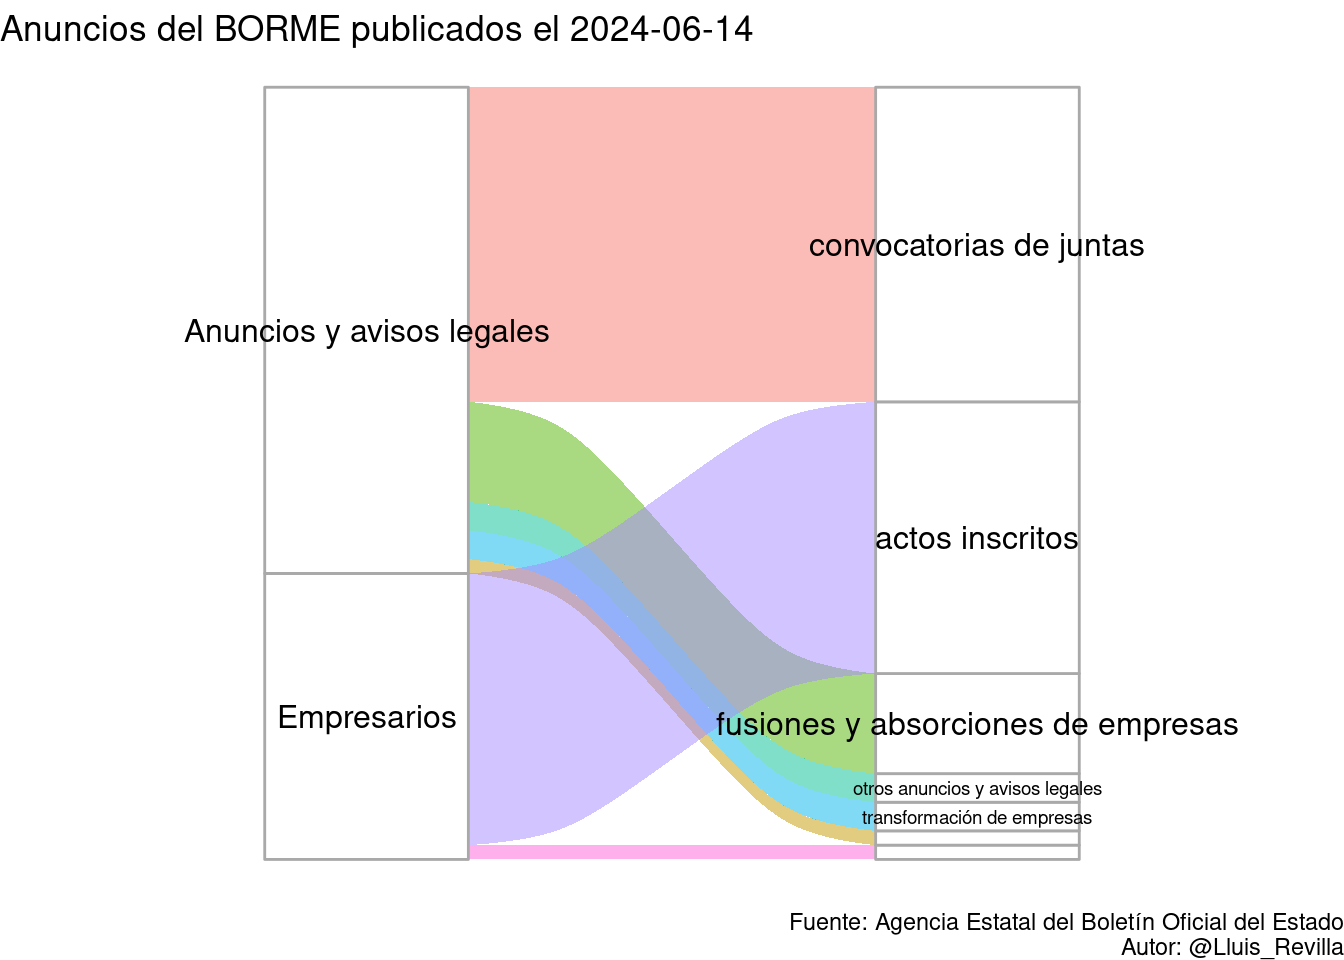
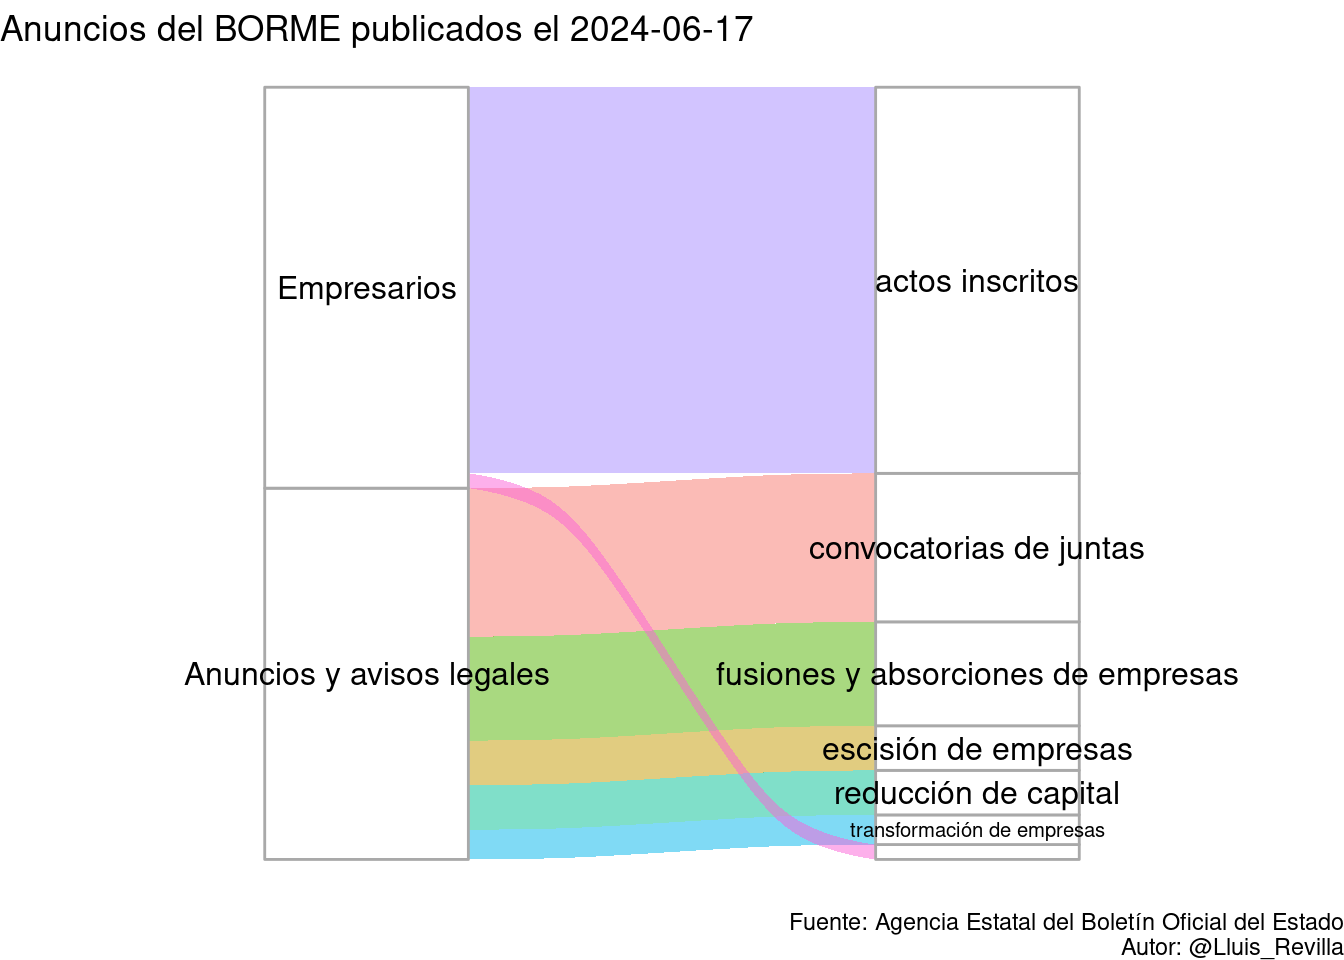
Update BORME

Changed region(s): [[0.125, 0.0938, 0.9375, 0.9062], [0.5312, 0.0, 0.5625, 0.0312]]

diff --git a/docs/last_BORME.html b/docs/last_BORME.html
@@ -32,6 +32,18 @@
 <script src="site_libs/navigation-1.1/tabsets.js"></script>
 <link href="site_libs/highlightjs-9.12.0/default.css" rel="stylesheet" />
 <script src="site_libs/highlightjs-9.12.0/highlight.js"></script>
+<script src="site_libs/htmlwidgets-1.6.2/htmlwidgets.js"></script>
+<link href="site_libs/datatables-css-0.0.0/datatables-crosstalk.css" rel="stylesheet" />
+<script src="site_libs/datatables-binding-0.31/datatables.js"></script>
+<link href="site_libs/dt-core-1.13.6/css/jquery.dataTables.min.css" rel="stylesheet" />
+<link href="site_libs/dt-core-1.13.6/css/jquery.dataTables.extra.css" rel="stylesheet" />
+<script src="site_libs/dt-core-1.13.6/js/jquery.dataTables.min.js"></script>
+<link href="site_libs/nouislider-7.0.10/jquery.nouislider.min.css" rel="stylesheet" />
+<script src="site_libs/nouislider-7.0.10/jquery.nouislider.min.js"></script>
+<link href="site_libs/selectize-0.12.0/selectize.bootstrap3.css" rel="stylesheet" />
+<script src="site_libs/selectize-0.12.0/selectize.min.js"></script>
+<link href="site_libs/crosstalk-1.2.1/css/crosstalk.min.css" rel="stylesheet" />
+<script src="site_libs/crosstalk-1.2.1/js/crosstalk.min.js"></script>
 <link href="site_libs/font-awesome-6.4.2/css/all.min.css" rel="stylesheet" />
 <link href="site_libs/font-awesome-6.4.2/css/v4-shims.min.css" rel="stylesheet" />
 <script async src="https://www.googletagmanager.com/gtag/js?id=UA-57101844-6"></script>
@@ -365,7 +377,17 @@ $(document).ready(function () {
 </div>
 
 
-<p>Sorry tody I couldn’t retrieve the results</p>
+<div id="resumen-gráfico" class="section level1">
+<h1>Resumen gráfico</h1>
+<p>Esta página web contiene el último sumario del BORME publicado el 2024-06-17 con 52 publicaciones.</p>
+<p><img src="last_BORME_files/figure-html/graphics-1.png" width="672" /></p>
+</div>
+<div id="tabla-de-publicaciones" class="section level1">
+<h1>Tabla de publicaciones</h1>
+<p>Aquí está la tabla completa con enlaces a las publicaciones:</p>
+<div class="datatables html-widget html-fill-item-overflow-hidden html-fill-item" id="htmlwidget-73c879fcde3df2f0fc9c" style="width:100%;height:auto;"></div>
+<script type="application/json" data-for="htmlwidget-73c879fcde3df2f0fc9c">{"x":{"filter":"top","vertical":false,"filterHTML":"<tr>\n  <td><\/td>\n  <td data-type=\"character\" style=\"vertical-align: top;\">\n    <div class=\"form-group has-feedback\" style=\"margin-bottom: auto;\">\n      <input type=\"search\" placeholder=\"All\" class=\"form-control\" style=\"width: 100%;\"/>\n      <span class=\"glyphicon glyphicon-remove-circle form-control-feedback\"><\/span>\n    <\/div>\n  <\/td>\n  <td data-type=\"character\" style=\"vertical-align: top;\">\n    <div class=\"form-group has-feedback\" style=\"margin-bottom: auto;\">\n      <input type=\"search\" placeholder=\"All\" class=\"form-control\" style=\"width: 100%;\"/>\n      <span class=\"glyphicon glyphicon-remove-circle form-control-feedback\"><\/span>\n    <\/div>\n  <\/td>\n  <td data-type=\"character\" style=\"vertical-align: top;\">\n    <div class=\"form-group has-feedback\" style=\"margin-bottom: auto;\">\n      <input type=\"search\" placeholder=\"All\" class=\"form-control\" style=\"width: 100%;\" disabled=\"\"/>\n      <span class=\"glyphicon glyphicon-remove-circle form-control-feedback\"><\/span>\n    <\/div>\n  <\/td>\n  <td data-type=\"character\" style=\"vertical-align: top;\">\n    <div class=\"form-group has-feedback\" style=\"margin-bottom: auto;\">\n      <input type=\"search\" placeholder=\"All\" class=\"form-control\" style=\"width: 100%;\"/>\n      <span class=\"glyphicon glyphicon-remove-circle form-control-feedback\"><\/span>\n    <\/div>\n  <\/td>\n<\/tr>","data":[["1","2","3","4","5","6","7","8","9","10","11","12","13","14","15","16","17","18","19","20","21","22","23","24","25","26","27","28","29","30","31","32","33","34","35","36","37","38","39","40","41","42","43","44","45","46","47","48","49","50","51","52"],["SECCIÓN PRIMERA. Empresarios","SECCIÓN PRIMERA. Empresarios","SECCIÓN PRIMERA. Empresarios","SECCIÓN PRIMERA. Empresarios","SECCIÓN PRIMERA. Empresarios","SECCIÓN PRIMERA. Empresarios","SECCIÓN PRIMERA. Empresarios","SECCIÓN PRIMERA. Empresarios","SECCIÓN PRIMERA. Empresarios","SECCIÓN PRIMERA. Empresarios","SECCIÓN PRIMERA. Empresarios","SECCIÓN PRIMERA. Empresarios","SECCIÓN PRIMERA. Empresarios","SECCIÓN PRIMERA. Empresarios","SECCIÓN PRIMERA. Empresarios","SECCIÓN PRIMERA. Empresarios","SECCIÓN PRIMERA. Empresarios","SECCIÓN PRIMERA. Empresarios","SECCIÓN PRIMERA. Empresarios","SECCIÓN PRIMERA. Empresarios","SECCIÓN PRIMERA. Empresarios","SECCIÓN PRIMERA. Empresarios","SECCIÓN PRIMERA. Empresarios","SECCIÓN PRIMERA. Empresarios","SECCIÓN PRIMERA. Empresarios","SECCIÓN PRIMERA. Empresarios","SECCIÓN PRIMERA. Empresarios","SECCIÓN SEGUNDA. Anuncios y avisos legales","SECCIÓN SEGUNDA. Anuncios y avisos legales","SECCIÓN SEGUNDA. Anuncios y avisos legales","SECCIÓN SEGUNDA. Anuncios y avisos legales","SECCIÓN SEGUNDA. Anuncios y avisos legales","SECCIÓN SEGUNDA. Anuncios y avisos legales","SECCIÓN SEGUNDA. Anuncios y avisos legales","SECCIÓN SEGUNDA. Anuncios y avisos legales","SECCIÓN SEGUNDA. Anuncios y avisos legales","SECCIÓN SEGUNDA. Anuncios y avisos legales","SECCIÓN SEGUNDA. Anuncios y avisos legales","SECCIÓN SEGUNDA. Anuncios y avisos legales","SECCIÓN SEGUNDA. Anuncios y avisos legales","SECCIÓN SEGUNDA. Anuncios y avisos legales","SECCIÓN SEGUNDA. Anuncios y avisos legales","SECCIÓN SEGUNDA. Anuncios y avisos legales","SECCIÓN SEGUNDA. Anuncios y avisos legales","SECCIÓN SEGUNDA. Anuncios y avisos legales","SECCIÓN SEGUNDA. Anuncios y avisos legales","SECCIÓN SEGUNDA. Anuncios y avisos legales","SECCIÓN SEGUNDA. Anuncios y avisos legales","SECCIÓN SEGUNDA. Anuncios y avisos legales","SECCIÓN SEGUNDA. Anuncios y avisos legales","SECCIÓN SEGUNDA. Anuncios y avisos legales","SECCIÓN SEGUNDA. Anuncios y avisos legales"],["Actos inscritos","Actos inscritos","Actos inscritos","Actos inscritos","Actos inscritos","Actos inscritos","Actos inscritos","Actos inscritos","Actos inscritos","Actos inscritos","Actos inscritos","Actos inscritos","Actos inscritos","Actos inscritos","Actos inscritos","Actos inscritos","Actos inscritos","Actos inscritos","Actos inscritos","Actos inscritos","Actos inscritos","Actos inscritos","Actos inscritos","Actos inscritos","Actos inscritos","Actos inscritos","Otros actos publicados en el Registro Mercantil","CONVOCATORIAS DE JUNTAS","CONVOCATORIAS DE JUNTAS","CONVOCATORIAS DE JUNTAS","CONVOCATORIAS DE JUNTAS","CONVOCATORIAS DE JUNTAS","CONVOCATORIAS DE JUNTAS","CONVOCATORIAS DE JUNTAS","CONVOCATORIAS DE JUNTAS","CONVOCATORIAS DE JUNTAS","CONVOCATORIAS DE JUNTAS","FUSIONES Y ABSORCIONES DE EMPRESAS","FUSIONES Y ABSORCIONES DE EMPRESAS","FUSIONES Y ABSORCIONES DE EMPRESAS","FUSIONES Y ABSORCIONES DE EMPRESAS","FUSIONES Y ABSORCIONES DE EMPRESAS","FUSIONES Y ABSORCIONES DE EMPRESAS","FUSIONES Y ABSORCIONES DE EMPRESAS","ESCISIÓN DE EMPRESAS","ESCISIÓN DE EMPRESAS","ESCISIÓN DE EMPRESAS","TRANSFORMACIÓN DE EMPRESAS","TRANSFORMACIÓN DE EMPRESAS","REDUCCIÓN DE CAPITAL","REDUCCIÓN DE CAPITAL","REDUCCIÓN DE CAPITAL"],[null,null,null,null,null,null,null,null,null,null,null,null,null,null,null,null,null,null,null,null,null,null,null,null,null,null,null,null,null,null,null,null,null,null,null,null,null,null,null,null,null,null,null,null,null,null,null,null,null,null,null,null],["BORME-A-2024-115-02","BORME-A-2024-115-03","BORME-A-2024-115-04","BORME-A-2024-115-06","BORME-A-2024-115-07","BORME-A-2024-115-11","BORME-A-2024-115-15","BORME-A-2024-115-17","BORME-A-2024-115-18","BORME-A-2024-115-22","BORME-A-2024-115-24","BORME-A-2024-115-25","BORME-A-2024-115-27","BORME-A-2024-115-28","BORME-A-2024-115-29","BORME-A-2024-115-30","BORME-A-2024-115-31","BORME-A-2024-115-33","BORME-A-2024-115-34","BORME-A-2024-115-35","BORME-A-2024-115-36","BORME-A-2024-115-44","BORME-A-2024-115-45","BORME-A-2024-115-46","BORME-A-2024-115-47","BORME-A-2024-115-99","BORME-B-2024-115-28","BORME-C-2024-3705","BORME-C-2024-3706","BORME-C-2024-3707","BORME-C-2024-3708","BORME-C-2024-3709","BORME-C-2024-3710","BORME-C-2024-3711","BORME-C-2024-3712","BORME-C-2024-3713","BORME-C-2024-3714","BORME-C-2024-3715","BORME-C-2024-3716","BORME-C-2024-3717","BORME-C-2024-3718","BORME-C-2024-3719","BORME-C-2024-3720","BORME-C-2024-3721","BORME-C-2024-3722","BORME-C-2024-3723","BORME-C-2024-3724","BORME-C-2024-3725","BORME-C-2024-3726","BORME-C-2024-3727","BORME-C-2024-3728","BORME-C-2024-3729"]],"container":"<table class=\"display\">\n  <thead>\n    <tr>\n      <th> <\/th>\n      <th>Sección<\/th>\n      <th>Emisor<\/th>\n      <th>Texto<\/th>\n      <th>Link<\/th>\n    <\/tr>\n  <\/thead>\n<\/table>","options":{"pageLength":10,"autoWidth":true,"columnDefs":[{"orderable":false,"targets":0},{"name":" ","targets":0},{"name":"Sección","targets":1},{"name":"Emisor","targets":2},{"name":"Texto","targets":3},{"name":"Link","targets":4}],"order":[],"orderClasses":false,"orderCellsTop":true}},"evals":[],"jsHooks":[]}</script>
+</div>
 
 
 
